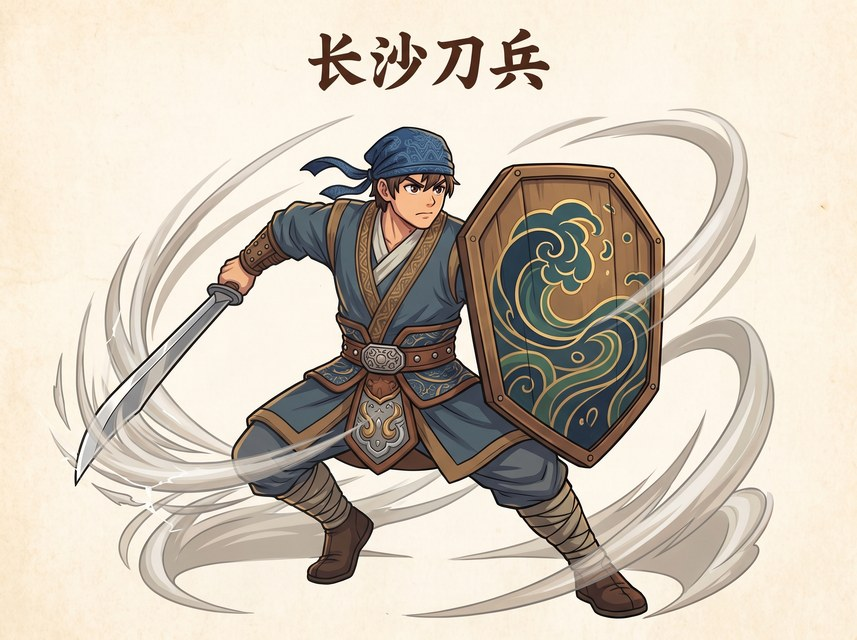
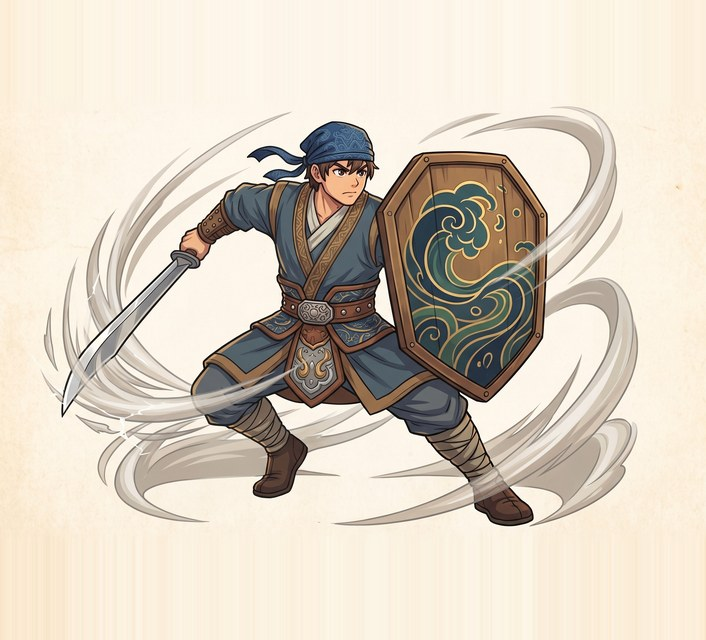
tools/prep_art.py: cut a title band and pad with feathered paper colour so soldier art can be framed full-body; 丹阳兵/长沙刀兵 now full-body
Claude-Session: https://claude.ai/code/session_01KHm8b4T1h3CjcdmfBKpVSV

diff --git a/tools/prep_art.py b/tools/prep_art.py
@@ -1,0 +1,51 @@
+"""Prepare a generated illustration for a card: cut off a title band at the top and pad the canvas with
+the paper colour, so the figure can be framed smaller inside a portrait card window.
+
+    python tools/prep_art.py <in.jpg> <out.jpg> [--cut-top 0.15] [--figure 0.70]
+
+--cut-top  fraction of the image height to remove from the top (the title text)
+--figure   how much of the card height the figure should fill (smaller = smaller figure)
+
+The original file is never modified. Padding uses the paper colour of the image's own top / bottom edge, feathered into it.
+"""
+import argparse
+
+import numpy as np
+from PIL import Image
+
+
+def main() -> None:
+    ap = argparse.ArgumentParser()
+    ap.add_argument("src")
+    ap.add_argument("dst")
+    ap.add_argument("--cut-top", type=float, default=0.15)
+    ap.add_argument("--figure", type=float, default=0.70)
+    args = ap.parse_args()
+
+    im = Image.open(args.src).convert("RGB")
+    w, h = im.size
+    cut = int(h * args.cut_top)
+    body = np.asarray(im.crop((0, cut, w, h))).astype(float)
+    bh = body.shape[0]
+    # figure spans roughly the remaining height; pad so it fills `figure` of the new canvas
+    target_h = int(bh / args.figure)
+    top_pad = (target_h - bh) // 2
+    # pad with the paper colour of each edge (per column, so a vignette carries on), then feather the seam
+    top_row = body[:12].mean(axis=0)
+    bot_row = body[-12:].mean(axis=0)
+    canvas = np.empty((target_h, w, 3))
+    canvas[:top_pad] = top_row
+    canvas[top_pad + bh:] = bot_row
+    canvas[top_pad:top_pad + bh] = body
+    feather = 60
+    for i in range(feather):
+        t = i / feather
+        canvas[top_pad + i] = canvas[top_pad + i] * t + top_row * (1 - t)
+        canvas[top_pad + bh - 1 - i] = canvas[top_pad + bh - 1 - i] * t + bot_row * (1 - t)
+    out = Image.fromarray(canvas.clip(0, 255).astype(np.uint8))
+    out.save(args.dst, quality=92)
+    print(f"{args.dst}: {out.size}")
+
+
+if __name__ == "__main__":
+    main()

diff --git a/pics/SOURCES.md b/pics/SOURCES.md
@@ -4,8 +4,8 @@
 
 | key | 文件 | 来源 | 协议 | 作者 |
 |---|---|---|---|---|
-| `changsha` | placeholder/Gemini_Generated_Image_cqn0y1cqn0y1cqn0.jpg | 用户提供 | 用户提供（Gemini 生成） | — |
-| `danyang` | placeholder/Gemini_Generated_Image_v43ixkv43ixkv43i.jpg | 用户提供 | 用户提供（Gemini 生成） | — |
+| `changsha` | placeholder/changsha_card.jpg | 用户提供 | 用户提供（Gemini 生成） | — |
+| `danyang` | placeholder/danyang_card.jpg | 用户提供 | 用户提供（Gemini 生成） | — |
 | `lord` | placeholder/zhu gong.webp | 用户提供 | ⚠ 兰斯系列主角立绘（AliceSoft），仅自用占位，发布前必须替换 | — |
 | `sunce` | sun ce.jpg | 用户提供 | 用户提供 | — |
 | `zhouyu` | zhou yu.jpg | 用户提供 | 用户提供 | — |
